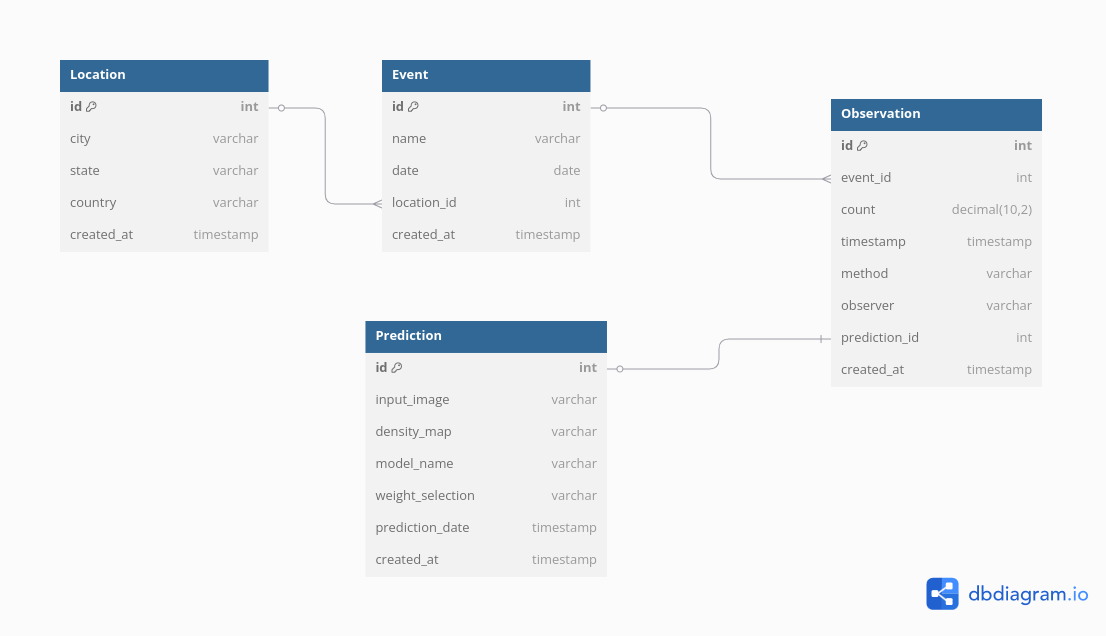
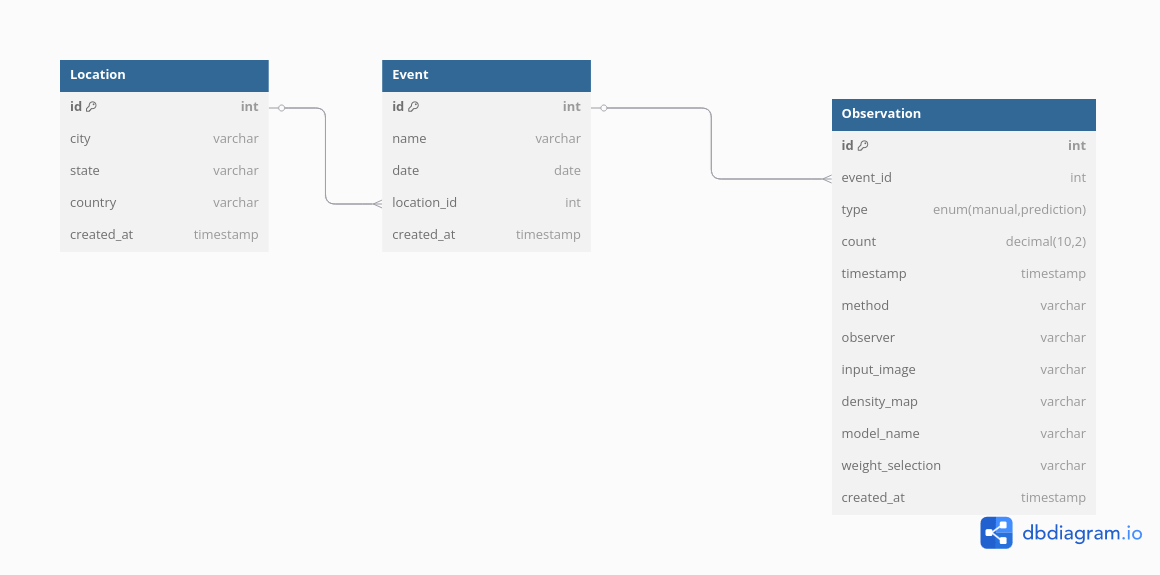
changed datamodel re predictions, cleaned attendant migrations

diff --git a/counter/templates/counts/event_detail.html b/counter/templates/counts/event_detail.html
@@ -2,20 +2,42 @@
 <h1>{{ event.name }}</h1>
 <p>
     <strong>Date:</strong> {{ event.date }}<br />
-    <strong>Location:</strong>
-    {{ event.location.city }}, {{ event.location.state }}
+    <strong>Location:</strong> {{ event.location.city }}, {{ event.location.state }}
 </p>
 
 <h2>Observations</h2>
 {% if observations %}
-<ul>
-    {% for obs in observations %}
-    <li>
-        {{ obs.timestamp|date:"Y-m-d H:i" }}: {{ obs.count }} — {{
-        obs.get_method_display }}
-    </li>
-    {% endfor %}
-</ul>
+<div class="table-responsive">
+    <table class="table table-striped table-bordered">
+        <thead class="thead-dark">
+            <tr>
+                <th>Timestamp</th>
+                <th>Count</th>
+                <th>Method</th>
+                <th>Observer</th>
+                <th>Prediction</th>
+                <th>Created At</th>
+            </tr>
+        </thead>
+        <tbody>
+            {% for obs in observations %}
+            <tr>
+                <td>{{ obs.timestamp|date:"Y-m-d H:i" }}</td>
+                <td>{{ obs.count }}</td>
+                <td>{{ obs.get_method_display }}</td>
+                <td>{{ obs.observer|default:"—" }}</td>
+                <td>
+                    {% if obs.prediction %} 
+		    	{{ obs.prediction }} 
+		    {% else %} — 
+		    {% endif %}
+                </td>
+                <td>{{ obs.created_at|date:"Y-m-d H:i" }}</td>
+            </tr>
+            {% endfor %}
+        </tbody>
+    </table>
+</div>
 {% else %}
 <p><em>No observations recorded for this event.</em></p>
 {% endif %}

diff --git a/counter/templates/counts/event_list.html b/counter/templates/counts/event_list.html
@@ -2,7 +2,6 @@
 <div class="container mt-4">
     <div class="container mt-4">
         <h1>Crowd Count Events</h1>
-
         <div class="list-group mt-3">
             {% for event in events %}
             <a
@@ -19,14 +18,6 @@
             {% empty %}
             <div class="alert alert-info">No events have been added yet.</div>
             {% endfor %}
-        </div>
-
-        <div class="mt-3">
-            <a
-                href="{% url 'counts:location_list' %}"
-                class="btn btn-outline-secondary"
-                >View by Location</a
-            >
         </div>
     </div>
     {% endblock %}

diff --git a/counter/models.py b/counter/models.py
@@ -27,20 +27,6 @@ class Event(models.Model):
         unique_together = ['name', 'date', 'location']
 
 
-class Prediction(models.Model):
-    input_image = models.ImageField(upload_to='inputs')
-    density_map = models.ImageField(upload_to='density_maps')
-    model_name = models.CharField(max_length=50)
-    weight_selection = models.CharField(max_length=20)
-    prediction_date = models.DateTimeField(auto_now_add=True)
-    created_at = models.DateTimeField(auto_now_add=True)
-
-    def __str__(self):
-        if hasattr(self, 'observation'):
-            return f"{self.model_name} ({self.weight_selection}) – {self.observation.event.name}"
-        return f"{self.model_name} ({self.weight_selection}) – Unlinked Prediction"
-
-
 class Observation(models.Model):
     METHOD_CHOICES = [
         ('CLICKER', 'Hand count using clicker'),
@@ -53,14 +39,15 @@ class Observation(models.Model):
     timestamp = models.DateTimeField()
     method = models.CharField(max_length=20, choices=METHOD_CHOICES)
     observer = models.CharField(max_length=100, blank=True, null=True)
-    prediction = models.OneToOneField(Prediction, on_delete=models.SET_NULL, blank=True, null=True, related_name='observation')
+    # New fields moved from Prediction:
+    input_image = models.ImageField(upload_to='inputs', blank=True, null=True)
+    density_map = models.ImageField(upload_to='density_maps', blank=True, null=True)
+    model_name = models.CharField(max_length=50, blank=True, null=True)
+    weight_selection = models.CharField(max_length=20, blank=True, null=True)
+
     created_at = models.DateTimeField(auto_now_add=True)
 
     def __str__(self):
-        if self.prediction:
-            return f"AI Observation ({self.prediction.model_name}) - {self.event.name}"
-        else:
-            return f"{self.get_method_display()} by {self.observer} - {self.event.name}"
-
-    class Meta:
-        ordering = ['-timestamp']
+        if self.method == 'AI':
+            return f"AI Observation ({self.model_name}) - {self.event.name}"
+        return f"{self.get_method_display()} by {self.observer or 'Unknown'} - {self.event.name}"

diff --git a/counter/migrations/0002_alter_observation_options_and_more.py b/counter/migrations/0002_alter_observation_options_and_more.py
@@ -1,0 +1,41 @@
+# Generated by Django 4.2.20 on 2025-04-29 18:54
+
+from django.db import migrations, models
+
+
+class Migration(migrations.Migration):
+
+    dependencies = [
+        ("counter", "0001_initial"),
+    ]
+
+    operations = [
+        migrations.AlterModelOptions(
+            name="observation",
+            options={},
+        ),
+        migrations.RemoveField(
+            model_name="observation",
+            name="prediction",
+        ),
+        migrations.AddField(
+            model_name="observation",
+            name="density_map",
+            field=models.ImageField(blank=True, null=True, upload_to="density_maps"),
+        ),
+        migrations.AddField(
+            model_name="observation",
+            name="input_image",
+            field=models.ImageField(blank=True, null=True, upload_to="inputs"),
+        ),
+        migrations.AddField(
+            model_name="observation",
+            name="model_name",
+            field=models.CharField(blank=True, max_length=50, null=True),
+        ),
+        migrations.AddField(
+            model_name="observation",
+            name="weight_selection",
+            field=models.CharField(blank=True, max_length=20, null=True),
+        ),
+    ]

diff --git a/counter/migrations/0003_migrate_prediction_to_observation.py b/counter/migrations/0003_migrate_prediction_to_observation.py
@@ -1,0 +1,33 @@
+from django.db import migrations
+
+
+def move_prediction_data(apps, schema_editor):
+    Observation = apps.get_model('counter', 'Observation')
+    Prediction = apps.get_model('counter', 'Prediction')
+    db_alias = schema_editor.connection.alias
+
+    for obs in Observation.objects.using(db_alias).all():
+        try:
+            # manually resolve Prediction via assumed 1-to-1 relationship, fallback if it doesn't exist
+            pred = Prediction.objects.using(db_alias).get(id=obs.id)
+        except Prediction.DoesNotExist:
+            continue
+
+        obs.input_image = pred.input_image
+        obs.density_map = pred.density_map
+        obs.model_name = pred.model_name
+        obs.weight_selection = pred.weight_selection
+        obs.save()
+
+
+
+class Migration(migrations.Migration):
+
+    dependencies = [
+        ("counter", "0002_alter_observation_options_and_more"),
+    ]
+
+    operations = [
+        migrations.RunPython(move_prediction_data),
+    ]
+

diff --git a/0003_migrate_prediction_to_observation.py b/0003_migrate_prediction_to_observation.py
@@ -1,0 +1,30 @@
+# Generated by Django 4.2.20 on 2025-04-29 18:54
+
+
+from django.db import migrations
+
+def move_prediction_data(apps, schema_editor):
+    Observation = apps.get_model('counter', 'Observation')
+    Prediction = apps.get_model('counter', 'Prediction')
+
+    for obs in Observation.objects.filter(prediction__isnull=False):
+        pred = obs.prediction
+        obs.input_image = pred.input_image
+        obs.density_map = pred.density_map
+        obs.model_name = pred.model_name
+        obs.weight_selection = pred.weight_selection
+        obs.save()
+
+def reverse_func(apps, schema_editor):
+    pass  # Optional: Implement if you need to reverse
+
+class Migration(migrations.Migration):
+
+    dependencies = [
+        ('counter', '0003_migrate_prediction_to_observation'),
+    ]
+
+    operations = [
+        migrations.RunPython(move_prediction_data, reverse_func),
+    ]
+

diff --git a/counter/views.py b/counter/views.py
@@ -16,7 +16,7 @@ from django.views.generic import DetailView
 from policounter import settings
 from lwcc import LWCC
 
-from .models import Location, Event, Observation, Prediction
+from .models import Location, Event, Observation
 
 
 def index(request):
@@ -41,12 +41,6 @@ def observation_detail(request, observation_id):
     """View to display details of a specific observation, including prediction if available"""
     observation = get_object_or_404(Observation, pk=observation_id)
     return render(request, 'counts/observation_detail.html', {'observation': observation})
-
-
-def prediction_detail(request, prediction_id):
-    """View to display details of a specific prediction"""
-    prediction = get_object_or_404(Prediction, pk=prediction_id)
-    return render(request, 'counts/prediction_detail.html', {'prediction': prediction})
 
 
 def location_list(request):

diff --git a/counter/urls.py b/counter/urls.py
@@ -10,10 +10,6 @@ urlpatterns = [
     path('events/<int:pk>/',       views.event_detail, name='event_detail'),
     # Observation view
     path('observations/<int:observation_id>/', views.observation_detail, name='observation_detail'),
-
-    # Prediction view
-    path('predictions/<int:prediction_id>/', views.prediction_detail, name='prediction_detail'),
-
     # Location views
     path('locations/', views.location_list, name='location_list'),
     path('locations/<int:location_id>/', views.location_events, name='location_events'),

diff --git a/counter/migrations/0004_delete_prediction.py b/counter/migrations/0004_delete_prediction.py
@@ -1,0 +1,16 @@
+# Generated by Django 4.2.20 on 2025-04-29 19:24
+
+from django.db import migrations
+
+
+class Migration(migrations.Migration):
+
+    dependencies = [
+        ("counter", "0003_migrate_prediction_to_observation"),
+    ]
+
+    operations = [
+        migrations.DeleteModel(
+            name="Prediction",
+        ),
+    ]

diff --git a/counter/admin.py b/counter/admin.py
@@ -1,8 +1,7 @@
 from django.contrib import admin
-from .models import Location, Event, Observation, Prediction
+from .models import Location, Event, Observation
 
 admin.site.register(Location)
 admin.site.register(Event)
 admin.site.register(Observation)
-admin.site.register(Prediction)
 # Register your models here.
